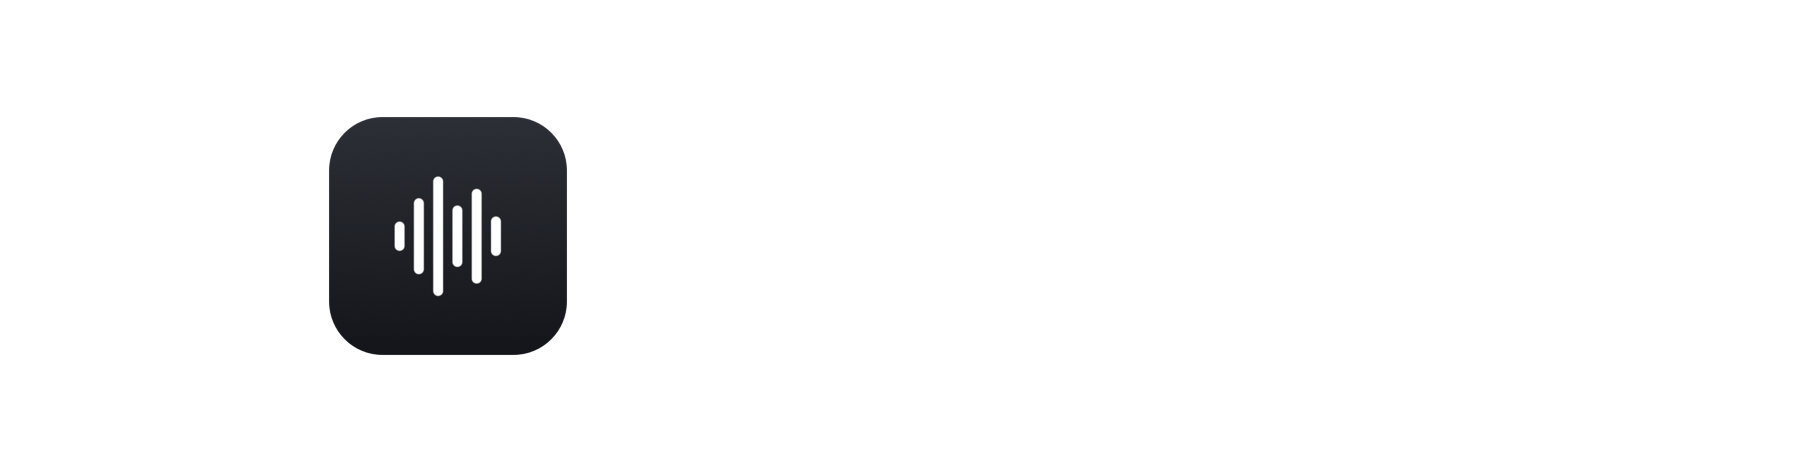
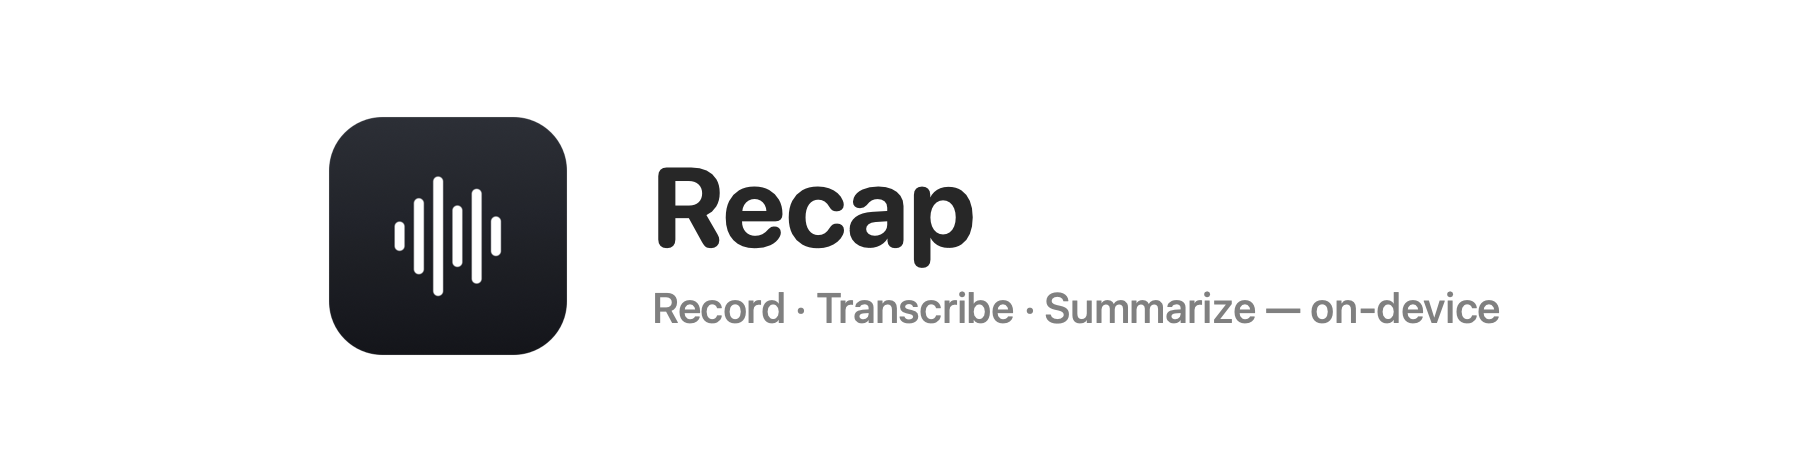
chore: rename CallT to Recap
- app, module, bundle id (com.werootbox.recap), Info.plist, DMG and
  update-installer names, diarizer helper (recap-diarizer), queue labels,
  log subsystem, UI strings and Italian localization, docs.
- first launch as Recap imports the CallT settings domain and the
  processed-files registry; API keys are picked up from the old Keychain
  service on first use and copied under the new one.
- build.sh also accepts a signing certificate created with the old name.
- GitHub repository URLs stay at anhonestboy/CallT.

Changed region(s): [[0.3422, 0.3559, 0.56, 0.5636], [0.3422, 0.6229, 0.84, 0.6822]]

diff --git a/app/Sources/UpdateChecker.swift b/app/Sources/UpdateChecker.swift
@@ -20,7 +20,7 @@ enum UpdateChecker {
         Task {
             if let update = try? await latestNewerVersion() {
                 Notifier.notify(
-                    title: String(localized: "CallT \(update.version) is available"),
+                    title: String(localized: "Recap \(update.version) is available"),
                     body: String(localized: "Choose “Check for updates” in Settings → General to install it."))
                 appLog("⬆ Update available: \(update.version)")
             }
@@ -32,8 +32,8 @@ enum UpdateChecker {
         do {
             if let update = try await latestNewerVersion() {
                 let alert = NSAlert()
-                alert.messageText = String(localized: "CallT \(update.version) is available")
-                alert.informativeText = String(localized: "You are on \(currentVersion). CallT can install the update and relaunch automatically.")
+                alert.messageText = String(localized: "Recap \(update.version) is available")
+                alert.informativeText = String(localized: "You are on \(currentVersion). Recap can install the update and relaunch automatically.")
                 alert.addButton(withTitle: String(localized: "Install and relaunch"))
                 alert.addButton(withTitle: String(localized: "Later"))
                 NSApp.activate(ignoringOtherApps: true)
@@ -42,7 +42,7 @@ enum UpdateChecker {
             } else {
                 let alert = NSAlert()
                 alert.messageText = String(localized: "You're up to date")
-                alert.informativeText = String(localized: "CallT \(currentVersion) is the latest version.")
+                alert.informativeText = String(localized: "Recap \(currentVersion) is the latest version.")
                 alert.addButton(withTitle: "OK")
                 NSApp.activate(ignoringOtherApps: true)
                 alert.runModal()
@@ -81,7 +81,7 @@ enum UpdateChecker {
         let assets = obj["assets"] as? [[String: Any]] ?? []
         let dmgString = assets
             .first { ($0["name"] as? String)?.hasSuffix(".dmg") == true }?["browser_download_url"] as? String
-            ?? "https://github.com/anhonestboy/CallT/releases/download/\(tag)/CallT.dmg"
+            ?? "https://github.com/anhonestboy/CallT/releases/download/\(tag)/Recap.dmg"
         guard let dmg = URL(string: dmgString) else { return nil }
         return Update(version: remote, dmg: dmg)
     }
@@ -90,20 +90,20 @@ enum UpdateChecker {
     /// (con ripristino in caso di errore) e riavvia.
     private static func installAndRelaunch(_ update: Update) async throws {
         let fm = FileManager.default
-        appLog("⬇ Downloading CallT \(update.version)…")
+        appLog("⬇ Downloading Recap \(update.version)…")
         let (downloaded, response) = try await URLSession.shared.download(from: update.dmg)
         guard (response as? HTTPURLResponse)?.statusCode == 200 else {
             throw TranscriptionError(message: "download failed (HTTP \((response as? HTTPURLResponse)?.statusCode ?? 0))")
         }
 
-        let work = fm.temporaryDirectory.appendingPathComponent("callt-update-\(UUID().uuidString)")
+        let work = fm.temporaryDirectory.appendingPathComponent("recap-update-\(UUID().uuidString)")
         try fm.createDirectory(at: work, withIntermediateDirectories: true)
         defer { try? fm.removeItem(at: work) }
-        let dmgFile = work.appendingPathComponent("CallT.dmg")
+        let dmgFile = work.appendingPathComponent("Recap.dmg")
         try fm.moveItem(at: downloaded, to: dmgFile)
 
         // Monta il DMG e copia l'app in un'area di lavoro, poi smonta comunque.
-        appLog("📦 Installing CallT \(update.version)…")
+        appLog("📦 Installing Recap \(update.version)…")
         let mount = work.appendingPathComponent("mnt")
         let attach = try await ProcessRunner.run(
             "/usr/bin/hdiutil",
@@ -111,11 +111,11 @@ enum UpdateChecker {
         guard attach.status == 0 else {
             throw TranscriptionError(message: "hdiutil attach failed: \(attach.stderr)")
         }
-        let staged = work.appendingPathComponent("CallT.app")
+        let staged = work.appendingPathComponent("Recap.app")
         var stageError: Error?
-        let newApp = mount.appendingPathComponent("CallT.app")
+        let newApp = mount.appendingPathComponent("Recap.app")
         if !fm.fileExists(atPath: newApp.path) {
-            stageError = TranscriptionError(message: "CallT.app not found in the update image")
+            stageError = TranscriptionError(message: "Recap.app not found in the update image")
         } else {
             let copy = try await ProcessRunner.run("/usr/bin/ditto", [newApp.path, staged.path])
             if copy.status != 0 {
@@ -136,7 +136,7 @@ enum UpdateChecker {
         // ripristina il vecchio se qualcosa va storto.
         let current = Bundle.main.bundleURL
         let backup = current.deletingLastPathComponent()
-            .appendingPathComponent(".CallT-\(currentVersion).old.app")
+            .appendingPathComponent(".Recap-\(currentVersion).old.app")
         try? fm.removeItem(at: backup)
         try fm.moveItem(at: current, to: backup)
         let install = try await ProcessRunner.run("/usr/bin/ditto", [staged.path, current.path])
@@ -147,7 +147,7 @@ enum UpdateChecker {
         }
         try? fm.removeItem(at: backup)
 
-        appLog("✅ CallT \(update.version) installed — relaunching")
+        appLog("✅ Recap \(update.version) installed — relaunching")
         let relaunch = Process()
         relaunch.executableURL = URL(fileURLWithPath: "/bin/sh")
         relaunch.arguments = ["-c", "sleep 0.7; /usr/bin/open \"\(current.path)\""]

diff --git a/app/Sources/UI/Onboarding.swift b/app/Sources/UI/Onboarding.swift
@@ -60,7 +60,7 @@ private struct OnboardingView: View {
                         .frame(width: 6, height: 6)
                 }
                 Spacer()
-                Button(step == 2 ? String(localized: "Start using CallT") : String(localized: "Continue")) {
+                Button(step == 2 ? String(localized: "Start using Recap") : String(localized: "Continue")) {
                     if step == 2 {
                         AppState.shared.startMonitoring()
                         finish()
@@ -85,7 +85,7 @@ private struct OnboardingView: View {
                 if let icon = NSApp.applicationIconImage {
                     Image(nsImage: icon).resizable().frame(width: 84, height: 84)
                 }
-                Text(verbatim: "CallT")
+                Text(verbatim: "Recap")
                     .font(.system(size: 30, weight: .bold, design: .rounded))
                 Text("Record, transcribe and summarize your calls — on-device.")
                     .font(.title3)
@@ -109,7 +109,7 @@ private struct OnboardingView: View {
             VStack(alignment: .leading, spacing: 16) {
                 Text("Permissions")
                     .font(.title2.weight(.semibold))
-                Text("CallT works entirely on your Mac. To record calls it needs these permissions — you can also grant them later, when you first hit Record.")
+                Text("Recap works entirely on your Mac. To record calls it needs these permissions — you can also grant them later, when you first hit Record.")
                     .font(.callout)
                     .foregroundStyle(.secondary)
                     .fixedSize(horizontal: false, vertical: true)
@@ -124,7 +124,7 @@ private struct OnboardingView: View {
             VStack(alignment: .leading, spacing: 16) {
                 Text("Call notes")
                     .font(.title2.weight(.semibold))
-                Text("After each transcription CallT writes organized Markdown notes: summary, topics, decisions, action items — with speakers identified. By default it uses Apple Intelligence on-device (free, private). You can switch to Claude, OpenRouter, DeepSeek or Ollama in Settings → Notes.")
+                Text("After each transcription Recap writes organized Markdown notes: summary, topics, decisions, action items — with speakers identified. By default it uses Apple Intelligence on-device (free, private). You can switch to Claude, OpenRouter, DeepSeek or Ollama in Settings → Notes.")
                     .font(.callout)
                     .foregroundStyle(.secondary)
                     .fixedSize(horizontal: false, vertical: true)

diff --git a/app/Sources/UI/SettingsView.swift b/app/Sources/UI/SettingsView.swift
@@ -79,7 +79,7 @@ struct GeneralTab: View {
                 }
                 if needsRelaunch {
                     HStack {
-                        Text("Takes effect after relaunching CallT.")
+                        Text("Takes effect after relaunching Recap.")
                             .font(.footnote).foregroundStyle(.orange)
                         Button("Relaunch now") { relaunch() }
                     }
@@ -98,7 +98,7 @@ struct GeneralTab: View {
                         }
                     }
                 }
-                Toggle("Open CallT at login", isOn: $launchAtLogin)
+                Toggle("Open Recap at login", isOn: $launchAtLogin)
                     .onChange(of: launchAtLogin) { _, enabled in
                         do {
                             if enabled { try SMAppService.mainApp.register() }
@@ -505,11 +505,11 @@ struct AutomationTab: View {
             } header: {
                 Text("Automatic delivery")
             } footer: {
-                Text("When each transcription finishes, CallT runs the chosen Apple Shortcut with the .txt file as input: useful to send it via mail, Slack, Notes, and so on.")
+                Text("When each transcription finishes, Recap runs the chosen Apple Shortcut with the .txt file as input: useful to send it via mail, Slack, Notes, and so on.")
             }
             Section {
             } footer: {
-                Text("CallT also exposes a “Transcribe video” action in the Shortcuts app, so you can build automations that transcribe a file on demand.")
+                Text("Recap also exposes a “Transcribe video” action in the Shortcuts app, so you can build automations that transcribe a file on demand.")
             }
         }
         .formStyle(.grouped)
@@ -526,8 +526,8 @@ struct AutomationTab: View {
     private func runTest() async {
         testResult = String(localized: "Running…")
         let sample = FileManager.default.temporaryDirectory
-            .appendingPathComponent("callt-sample-transcript.txt")
-        try? String(localized: "This is a sample transcript generated by CallT.").write(
+            .appendingPathComponent("recap-sample-transcript.txt")
+        try? String(localized: "This is a sample transcript generated by Recap.").write(
             to: sample, atomically: true, encoding: .utf8)
         if let error = await ShortcutRunner.run(shortcut: deliveryShortcut, input: sample) {
             testResult = String(localized: "Error: \(error)")

diff --git a/app/Sources/LegacyMigration.swift b/app/Sources/LegacyMigration.swift
@@ -1,0 +1,39 @@
+import Foundation
+
+/// L'app si chiamava CallT (bundle com.werootbox.callt). Al primo avvio come
+/// Recap importa impostazioni e registro dei file elaborati, così non si
+/// perde nulla. Le chiavi API nel Portachiavi vengono riprese al primo uso
+/// (vedi KeychainStore): macOS può chiedere una volta il permesso.
+enum LegacyMigration {
+    static let legacyBundleID = "com.werootbox.callt"
+    private static let doneKey = "migratedFromCallT"
+
+    static func run() {
+        let defaults = UserDefaults.standard
+        guard !defaults.bool(forKey: doneKey) else { return }
+        defer { defaults.set(true, forKey: doneKey) }
+
+        if let old = defaults.persistentDomain(forName: legacyBundleID), !old.isEmpty {
+            let current = defaults.persistentDomain(forName: Bundle.main.bundleIdentifier ?? "") ?? [:]
+            var imported = 0
+            for (key, value) in old where current[key] == nil {
+                defaults.set(value, forKey: key)
+                imported += 1
+            }
+            appLog("↪ Imported \(imported) settings from CallT")
+        }
+
+        let fm = FileManager.default
+        let base = fm.urls(for: .applicationSupportDirectory, in: .userDomainMask)[0]
+        let oldDir = base.appendingPathComponent("CallT", isDirectory: true)
+        let newDir = base.appendingPathComponent("Recap", isDirectory: true)
+        let oldRegistry = oldDir.appendingPathComponent("registry.json")
+        let newRegistry = newDir.appendingPathComponent("registry.json")
+        if fm.fileExists(atPath: oldRegistry.path), !fm.fileExists(atPath: newRegistry.path) {
+            try? fm.createDirectory(at: newDir, withIntermediateDirectories: true)
+            if (try? fm.copyItem(at: oldRegistry, to: newRegistry)) != nil {
+                appLog("↪ Imported the processed-files registry from CallT")
+            }
+        }
+    }
+}

diff --git a/app/Sources/Live/LiveSession.swift b/app/Sources/Live/LiveSession.swift
@@ -172,7 +172,7 @@ final class LiveSession: ObservableObject {
                 router.frames = analyzer
                 let clips = ClipRingBuffer(
                     dir: FileManager.default.temporaryDirectory
-                        .appendingPathComponent("callt-clips-\(UUID().uuidString)"),
+                        .appendingPathComponent("recap-clips-\(UUID().uuidString)"),
                     videoSize: source.videoSize, withMic: true, fps: fps,
                     maxPreRoll: Double(AppSettings.liveClipBefore))
                 clipBuffer = clips
@@ -236,7 +236,7 @@ final class LiveSession: ObservableObject {
         let alert = NSAlert()
         alert.alertStyle = .warning
         alert.messageText = String(localized: "Screen recording permission required")
-        alert.informativeText = String(localized: "To record calls, CallT needs permission to capture the screen and system audio. Enable CallT in System Settings → Privacy & Security → Screen & System Audio Recording, then try again.")
+        alert.informativeText = String(localized: "To record calls, Recap needs permission to capture the screen and system audio. Enable Recap in System Settings → Privacy & Security → Screen & System Audio Recording, then try again.")
         alert.addButton(withTitle: String(localized: "Open System Settings"))
         alert.addButton(withTitle: String(localized: "Cancel"))
         if alert.runModal() == .alertFirstButtonReturn {
@@ -774,7 +774,7 @@ final class MediaRouter: @unchecked Sendable {
     var clips: ClipRingBuffer?
     var recording: MediaFileWriter?
     var origin: CMTime = .zero
-    private let tapQueue = DispatchQueue(label: "com.werootbox.callt.live.tap")
+    private let tapQueue = DispatchQueue(label: "com.werootbox.recap.live.tap")
     private var detached = false
     private var _lastTime: Double = 0
     private var _lastVideoPTS: Double = 0

diff --git a/app/Sources/Live/ScreenShareWatcher.swift b/app/Sources/Live/ScreenShareWatcher.swift
@@ -2,13 +2,13 @@ import Foundation
 import AppKit
 
 /// Si accorge (in modo euristico) di quando stai condividendo lo schermo, così
-/// il pannello di CallT si nasconde da solo e ricompare alla fine.
+/// il pannello di Recap si nasconde da solo e ricompare alla fine.
 ///
 /// macOS non espone un'API "c'è una condivisione in corso": le app di call
 /// però mostrano finestre riconoscibili (la barra "meet.google.com sta
 /// condividendo il tuo schermo", la toolbar di condivisione di Zoom/Teams).
 /// Leggere i titoli delle finestre richiede il permesso di registrazione
-/// schermo, che CallT ha già.
+/// schermo, che Recap ha già.
 @MainActor
 final class ScreenShareWatcher: ObservableObject {
     static let shared = ScreenShareWatcher()
@@ -27,7 +27,7 @@ final class ScreenShareWatcher: ObservableObject {
         "zoom share", "share toolbar", "sharing toolbar", "screen sharing",
         "condivisione schermo", "you are presenting", "stai presentando",
     ]
-    private static let ignoredOwners: Set<String> = ["CallT", "Window Server", "Dock", "Control Center"]
+    private static let ignoredOwners: Set<String> = ["Recap", "Window Server", "Dock", "Control Center"]
 
     func start() {
         stop()

diff --git a/app/Sources/Live/MediaSources.swift b/app/Sources/Live/MediaSources.swift
@@ -37,8 +37,8 @@ final class ScreenCaptureSource: NSObject, LiveMediaSource, SCStreamOutput, SCSt
     private let wantsMic: Bool
     private let fps: Int
     private let handlers: MediaHandlers
-    private let videoQueue = DispatchQueue(label: "com.werootbox.callt.live.video")
-    private let audioQueue = DispatchQueue(label: "com.werootbox.callt.live.audio")
+    private let videoQueue = DispatchQueue(label: "com.werootbox.recap.live.video")
+    private let audioQueue = DispatchQueue(label: "com.werootbox.recap.live.audio")
     private var stream: SCStream?
     private var mic: MicCapture?
     private var repeatTimer: DispatchSourceTimer?
@@ -191,7 +191,7 @@ final class ScreenCaptureSource: NSObject, LiveMediaSource, SCStreamOutput, SCSt
 
 /// Rilegge una registrazione esistente come se fosse una call in corso, a
 /// velocità reale o accelerata. La prima traccia audio fa da "altri", la
-/// seconda (se c'è, come nelle registrazioni di CallT) da "io".
+/// seconda (se c'è, come nelle registrazioni di Recap) da "io".
 /// Serve a collaudare la modalità live senza essere in call.
 final class FileReplaySource: LiveMediaSource, @unchecked Sendable {
     let origin: CMTime = .zero

diff --git a/app/Sources/Live/MediaWriters.swift b/app/Sources/Live/MediaWriters.swift
@@ -22,7 +22,7 @@ final class MediaFileWriter: @unchecked Sendable {
 
     init(url: URL, videoSize: CGSize?, withMic: Bool, fps: Int = 10, queue: DispatchQueue? = nil) throws {
         self.url = url
-        self.queue = queue ?? DispatchQueue(label: "com.werootbox.callt.writer.\(url.lastPathComponent)")
+        self.queue = queue ?? DispatchQueue(label: "com.werootbox.recap.writer.\(url.lastPathComponent)")
         try? FileManager.default.removeItem(at: url)
         writer = try AVAssetWriter(outputURL: url, fileType: .mp4)
         writer.shouldOptimizeForNetworkUse = false
@@ -134,7 +134,7 @@ final class ClipRingBuffer: @unchecked Sendable {
     private let fps: Int
     private let segmentSeconds: Double = 10
     private let keepSeconds: Double
-    private let queue = DispatchQueue(label: "com.werootbox.callt.live.clips")
+    private let queue = DispatchQueue(label: "com.werootbox.recap.live.clips")
     private var current: MediaFileWriter?
     private var currentStart: Double = 0
     private var segments: [Segment] = []

diff --git a/app/Sources/UI/PopoverView.swift b/app/Sources/UI/PopoverView.swift
@@ -46,7 +46,7 @@ struct PopoverView: View {
             Image(systemName: "waveform")
                 .font(.system(size: 18, weight: .semibold))
                 .foregroundStyle(Color.accentColor)
-            Text(verbatim: "CallT").font(.title3.weight(.semibold))
+            Text(verbatim: "Recap").font(.title3.weight(.semibold))
             Spacer()
             Toggle(isOn: Binding(
                 get: { state.isMonitoring },
@@ -337,10 +337,10 @@ struct PopoverView: View {
             }
             .buttonStyle(.borderless)
             .help(String(localized: "Settings…"))
-            RowIconButton("info.circle", help: String(localized: "About CallT")) {
+            RowIconButton("info.circle", help: String(localized: "About Recap")) {
                 AboutPanel.show()
             }
-            RowIconButton("power", help: String(localized: "Quit CallT")) {
+            RowIconButton("power", help: String(localized: "Quit Recap")) {
                 state.quit()
             }
         }

diff --git a/app/Sources/Live/LiveDebug.swift b/app/Sources/Live/LiveDebug.swift
@@ -4,7 +4,7 @@ import ScreenCaptureKit
 
 /// Collaudo della modalità live senza una call vera:
 ///
-///   CallT --live-replay <file> [--speed 1] [--live-test-actions] [--render-ui <dir>] [--quit-after-session]
+///   Recap --live-replay <file> [--speed 1] [--live-test-actions] [--render-ui <dir>] [--quit-after-session]
 ///
 /// `--live-test-actions` esegue durante il replay screenshot, clip, momento
 /// segnato, nota e domanda; `--render-ui` salva PNG della UI reale (popover e
@@ -61,7 +61,7 @@ enum LiveDebug {
     }
 
     /// Fotografa il pannello vero (vetro incluso) sopra uno sfondo creato qui:
-    /// la cattura include solo le finestre di CallT, mai il resto dello schermo.
+    /// la cattura include solo le finestre di Recap, mai il resto dello schermo.
     private static func renderGlass(into dir: URL) async {
         let controller = LivePanelController.shared
         for (expanded, tab, name) in [(false, LivePanelTab.notes, "glass-compact"),

diff --git a/app/Sources/Notes/KeychainStore.swift b/app/Sources/Notes/KeychainStore.swift
@@ -3,9 +3,20 @@ import Security
 
 /// Archiviazione della chiave API nel Portachiavi (mai in UserDefaults in chiaro).
 enum KeychainStore {
-    private static let service = "com.werootbox.callt"
+    private static let service = "com.werootbox.recap"
+
+    /// Servizio usato quando l'app si chiamava CallT.
+    private static let legacyService = LegacyMigration.legacyBundleID
 
     static func read(_ account: String) -> String? {
+        if let value = read(account, service: service) { return value }
+        // Chiave salvata da CallT: la copia sotto il nuovo nome e la usa.
+        guard let legacy = read(account, service: legacyService) else { return nil }
+        write(legacy, account: account)
+        return legacy
+    }
+
+    private static func read(_ account: String, service: String) -> String? {
         let query: [String: Any] = [
             kSecClass as String: kSecClassGenericPassword,
             kSecAttrService as String: service,

diff --git a/app/Sources/LogStore.swift b/app/Sources/LogStore.swift
@@ -1,7 +1,7 @@
 import Foundation
 import os.log
 
-/// Log in memoria (per la UI) + su file in Application Support/CallT/callt.log.
+/// Log in memoria (per la UI) + su file in Application Support/Recap/recap.log.
 @MainActor
 final class LogStore: ObservableObject {
     struct Line: Identifiable, Equatable {
@@ -13,8 +13,8 @@ final class LogStore: ObservableObject {
 
     @Published private(set) var lines: [Line] = []
     private var nextID = 0
-    private let fileURL = AppSettings.appSupportDir.appendingPathComponent("callt.log")
-    private let osLog = Logger(subsystem: "com.werootbox.callt", category: "app")
+    private let fileURL = AppSettings.appSupportDir.appendingPathComponent("recap.log")
+    private let osLog = Logger(subsystem: "com.werootbox.recap", category: "app")
     private static let maxLines = 500
 
     var logFileURL: URL { fileURL }
